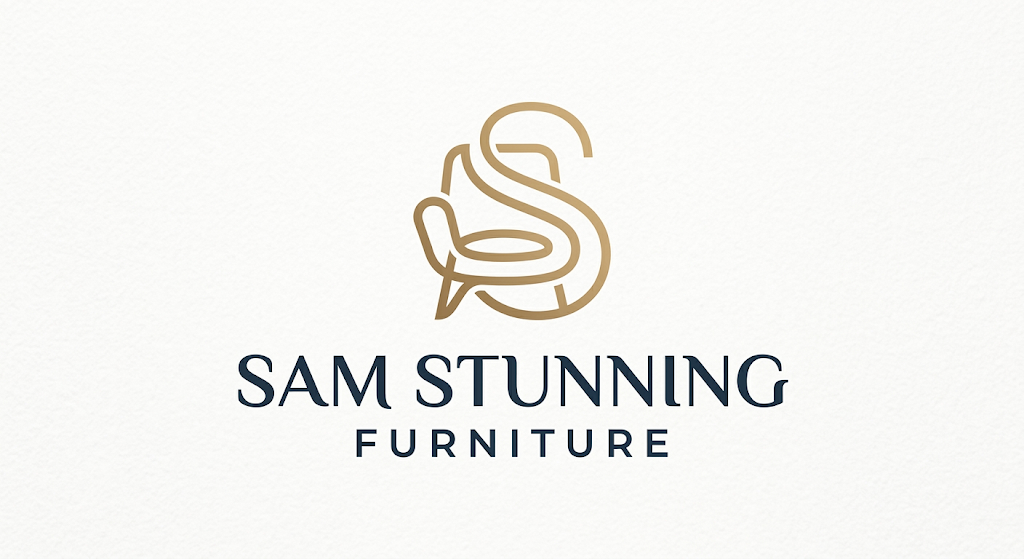
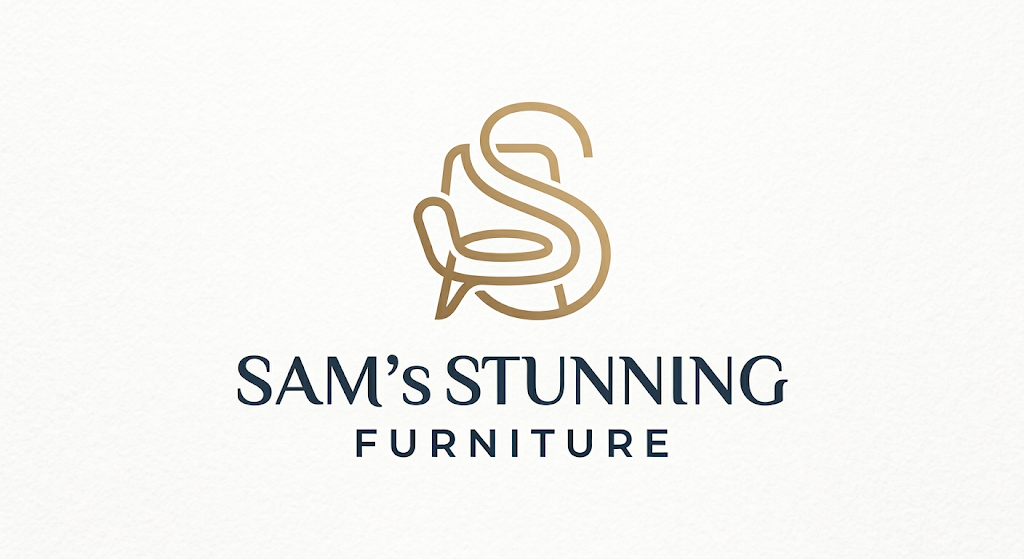
added the footer links and contacts

Changed region(s): [[0.2188, 0.6082, 0.7812, 0.7299]]

diff --git a/templates/includes/footer.html b/templates/includes/footer.html
@@ -1,19 +1,26 @@
+{% load static %}
 <footer class="site-footer">
     <div class="container site-footer__grid">
         <div class="site-footer__brand">
-            <a href="{% url 'home' %}" class="brand brand--light">
-                Sam Stunning <span class="brand__sub">Furniture</span>
+            <a href="{% url 'home' %}" class="brand brand--light" aria-label="Sam's Stunning Furniture, home">
+                <img class="brand__mark" src="{% static 'images/logo-mark.png' %}" width="73" height="80" alt="">
+                <span class="brand__name">Sam&rsquo;s Stunning <span class="brand__sub">Furniture</span></span>
             </a>
             <p>Furniture that brings comfort, character and timeless style into every room of your home.</p>
             <ul class="social-links">
                 <li>
-                    <a href="#" aria-label="Instagram (coming soon)">
+                    <a href="https://www.instagram.com/sams_stunning_furniture/" target="_blank" rel="noopener noreferrer" aria-label="Instagram (opens in a new tab)">
                         <svg viewBox="0 0 24 24" width="20" height="20" aria-hidden="true" focusable="false"><rect x="3.5" y="3.5" width="17" height="17" rx="5"/><circle cx="12" cy="12" r="4"/><circle cx="17.2" cy="6.8" r=".6" class="fill"/></svg>
                     </a>
                 </li>
                 <li>
-                    <a href="#" aria-label="Facebook (coming soon)">
+                    <a href="https://www.facebook.com/mukwayajames8" target="_blank" rel="noopener noreferrer" aria-label="Facebook (opens in a new tab)">
                         <svg viewBox="0 0 24 24" width="20" height="20" aria-hidden="true" focusable="false"><path d="M14.5 21v-7.5h2.6l.4-3h-3V8.6c0-.9.3-1.5 1.6-1.5h1.6V4.4c-.3 0-1.2-.1-2.3-.1-2.3 0-3.9 1.4-3.9 4v2.2H9v3h2.5V21"/></svg>
+                    </a>
+                </li>
+                <li>
+                    <a href="https://www.tiktok.com/@sams_stunning_furniture" target="_blank" rel="noopener noreferrer" aria-label="TikTok (opens in a new tab)">
+                        <svg viewBox="0 0 24 24" width="20" height="20" aria-hidden="true" focusable="false"><path d="M14 3.5v11a3.5 3.5 0 1 1-3.5-3.5"/><path d="M14 3.5c.4 2.7 2.2 4.5 5 4.7"/></svg>
                     </a>
                 </li>
             </ul>
@@ -43,17 +50,18 @@
 
         <div class="site-footer__col">
             <h2 class="site-footer__heading">Visit &amp; Contact</h2>
-            {# Placeholder details: replace with the store's real address, phone and email. #}
             <address>
-                <span>Showroom address to be announced</span>
-                <span>Phone: to be added</span>
-                <span>Email: to be added</span>
+                <a href="https://www.google.com/maps/search/?api=1&amp;query=Kyanja%2C+Kampala%2C+Uganda" target="_blank" rel="noopener noreferrer">
+                    Kyanja, Kampala<span class="visually-hidden"> (opens map in a new tab)</span>
+                </a>
+                <a href="tel:+256751526014">0751 526 014</a>
+                <a href="tel:+256767250127">0767 250 127</a>
             </address>
         </div>
     </div>
 
     <div class="container site-footer__bottom">
-        <p>&copy; {% now "Y" %} Sam Stunning Furniture. All rights reserved.</p>
+        <p>&copy; {% now "Y" %} Sam&rsquo;s Stunning Furniture. All rights reserved.</p>
         <a href="#main-content">Back to top</a>
     </div>
 </footer>

diff --git a/templates/includes/navbar.html b/templates/includes/navbar.html
@@ -2,9 +2,9 @@
 {% with current=request.resolver_match.url_name %}
 <header class="site-header" data-site-header>
     <div class="site-header__bar container">
-        <a href="{% url 'home' %}" class="brand" aria-label="Sam Stunning Furniture, home">
+        <a href="{% url 'home' %}" class="brand" aria-label="Sam's Stunning Furniture, home">
             <img class="brand__mark" src="{% static 'images/logo-mark.png' %}" width="73" height="80" alt="">
-            <span class="brand__name">Sam Stunning <span class="brand__sub">Furniture</span></span>
+            <span class="brand__name">Sam&rsquo;s Stunning <span class="brand__sub">Furniture</span></span>
         </a>
 
         <nav class="main-nav" id="main-nav" aria-label="Main navigation" data-main-nav>

diff --git a/templates/base.html b/templates/base.html
@@ -3,8 +3,8 @@
 <head>
     <meta charset="UTF-8">
     <meta name="viewport" content="width=device-width, initial-scale=1.0">
-    <title>{% block title %}Sam Stunning Furniture{% endblock %}</title>
-    <meta name="description" content="{% block meta_description %}Sam Stunning Furniture: thoughtfully designed furniture for every room of your home.{% endblock %}">
+    <title>{% block title %}Sam's Stunning Furniture{% endblock %}</title>
+    <meta name="description" content="{% block meta_description %}Sam's Stunning Furniture, Kyanja, Kampala: thoughtfully designed furniture for every room of your home.{% endblock %}">
     <meta name="theme-color" content="#F7F3EC">
     <link rel="icon" href="{% static 'images/favicon.svg' %}" type="image/svg+xml">
 

diff --git a/templates/search.html b/templates/search.html
@@ -1,8 +1,8 @@
 {% extends "base.html" %}
 
-{% block title %}{% if query %}Search: {{ query }}{% else %}Search{% endif %} | Sam Stunning Furniture{% endblock %}
+{% block title %}{% if query %}Search: {{ query }}{% else %}Search{% endif %} | Sam's Stunning Furniture{% endblock %}
 
-{% block meta_description %}Search the Sam Stunning Furniture collection.{% endblock %}
+{% block meta_description %}Search the Sam's Stunning Furniture collection.{% endblock %}
 
 {% block content %}
 <section class="section search-page" aria-labelledby="search-heading">

diff --git a/static/css/main.css b/static/css/main.css
@@ -1,5 +1,5 @@
 /* ==========================================================================
-   Sam Stunning Furniture: main stylesheet
+   Sam's Stunning Furniture: main stylesheet
    --------------------------------------------------------------------------
    1. Design tokens
    2. Base & typography
@@ -1037,7 +1037,7 @@ address {
 }
 
 .brand--light {
-    display: inline-block;
+    display: inline-flex;
     margin-bottom: 24px;
     color: var(--ivory);
 }

diff --git a/templates/home.html b/templates/home.html
@@ -1,7 +1,7 @@
 {% extends "base.html" %}
 {% load static %}
 
-{% block title %}Sam Stunning Furniture | Furniture That Feels Like Home{% endblock %}
+{% block title %}Sam's Stunning Furniture | Furniture That Feels Like Home{% endblock %}
 
 {% block body_class %}has-hero{% endblock %}
 

diff --git a/static/js/main.js b/static/js/main.js
@@ -1,5 +1,5 @@
 /*
- * Sam Stunning Furniture: site interactions
+ * Sam's Stunning Furniture: site interactions
  * - Header turns solid once the page scrolls past the hero.
  * - Mobile menu toggle.
  * - Search panel toggle.

diff --git a/docs/homepage-redesign.md b/docs/homepage-redesign.md
@@ -75,6 +75,6 @@ Not used: ambo-ampeng, inside-weather, sven-brandsma, virender-singh (style or c
 
 1. **Security:** `.env` is tracked in git (the `.gitignore` is inside `furniture_site/`, so it does not apply at the project root). Move `.gitignore` to the project root, untrack `.env`, and rotate any credentials it contained if it was ever pushed.
 2. Remove the non-image files from `furniture_site/images/` (`.exe`, `.docx`, `.crdownload`). Do not commit that folder; the site uses `static/images/`.
-3. Replace the contact and social placeholders in `footer.html` with real details.
+3. ~~Replace the contact and social placeholders in `footer.html`~~ Done (2026-10-12): Instagram, Facebook and TikTok links, Kyanja, Kampala (Google Maps link), and phones 0751 526 014 / 0767 250 127. Brand renamed to "Sam's Stunning Furniture"; logo mark re-extracted from the new `image.png`. The cart button was removed from the navbar. No email address yet.
 4. Add bedroom and outdoor photography.
 5. Once a `Product` model exists, render the featured grid from the database.
